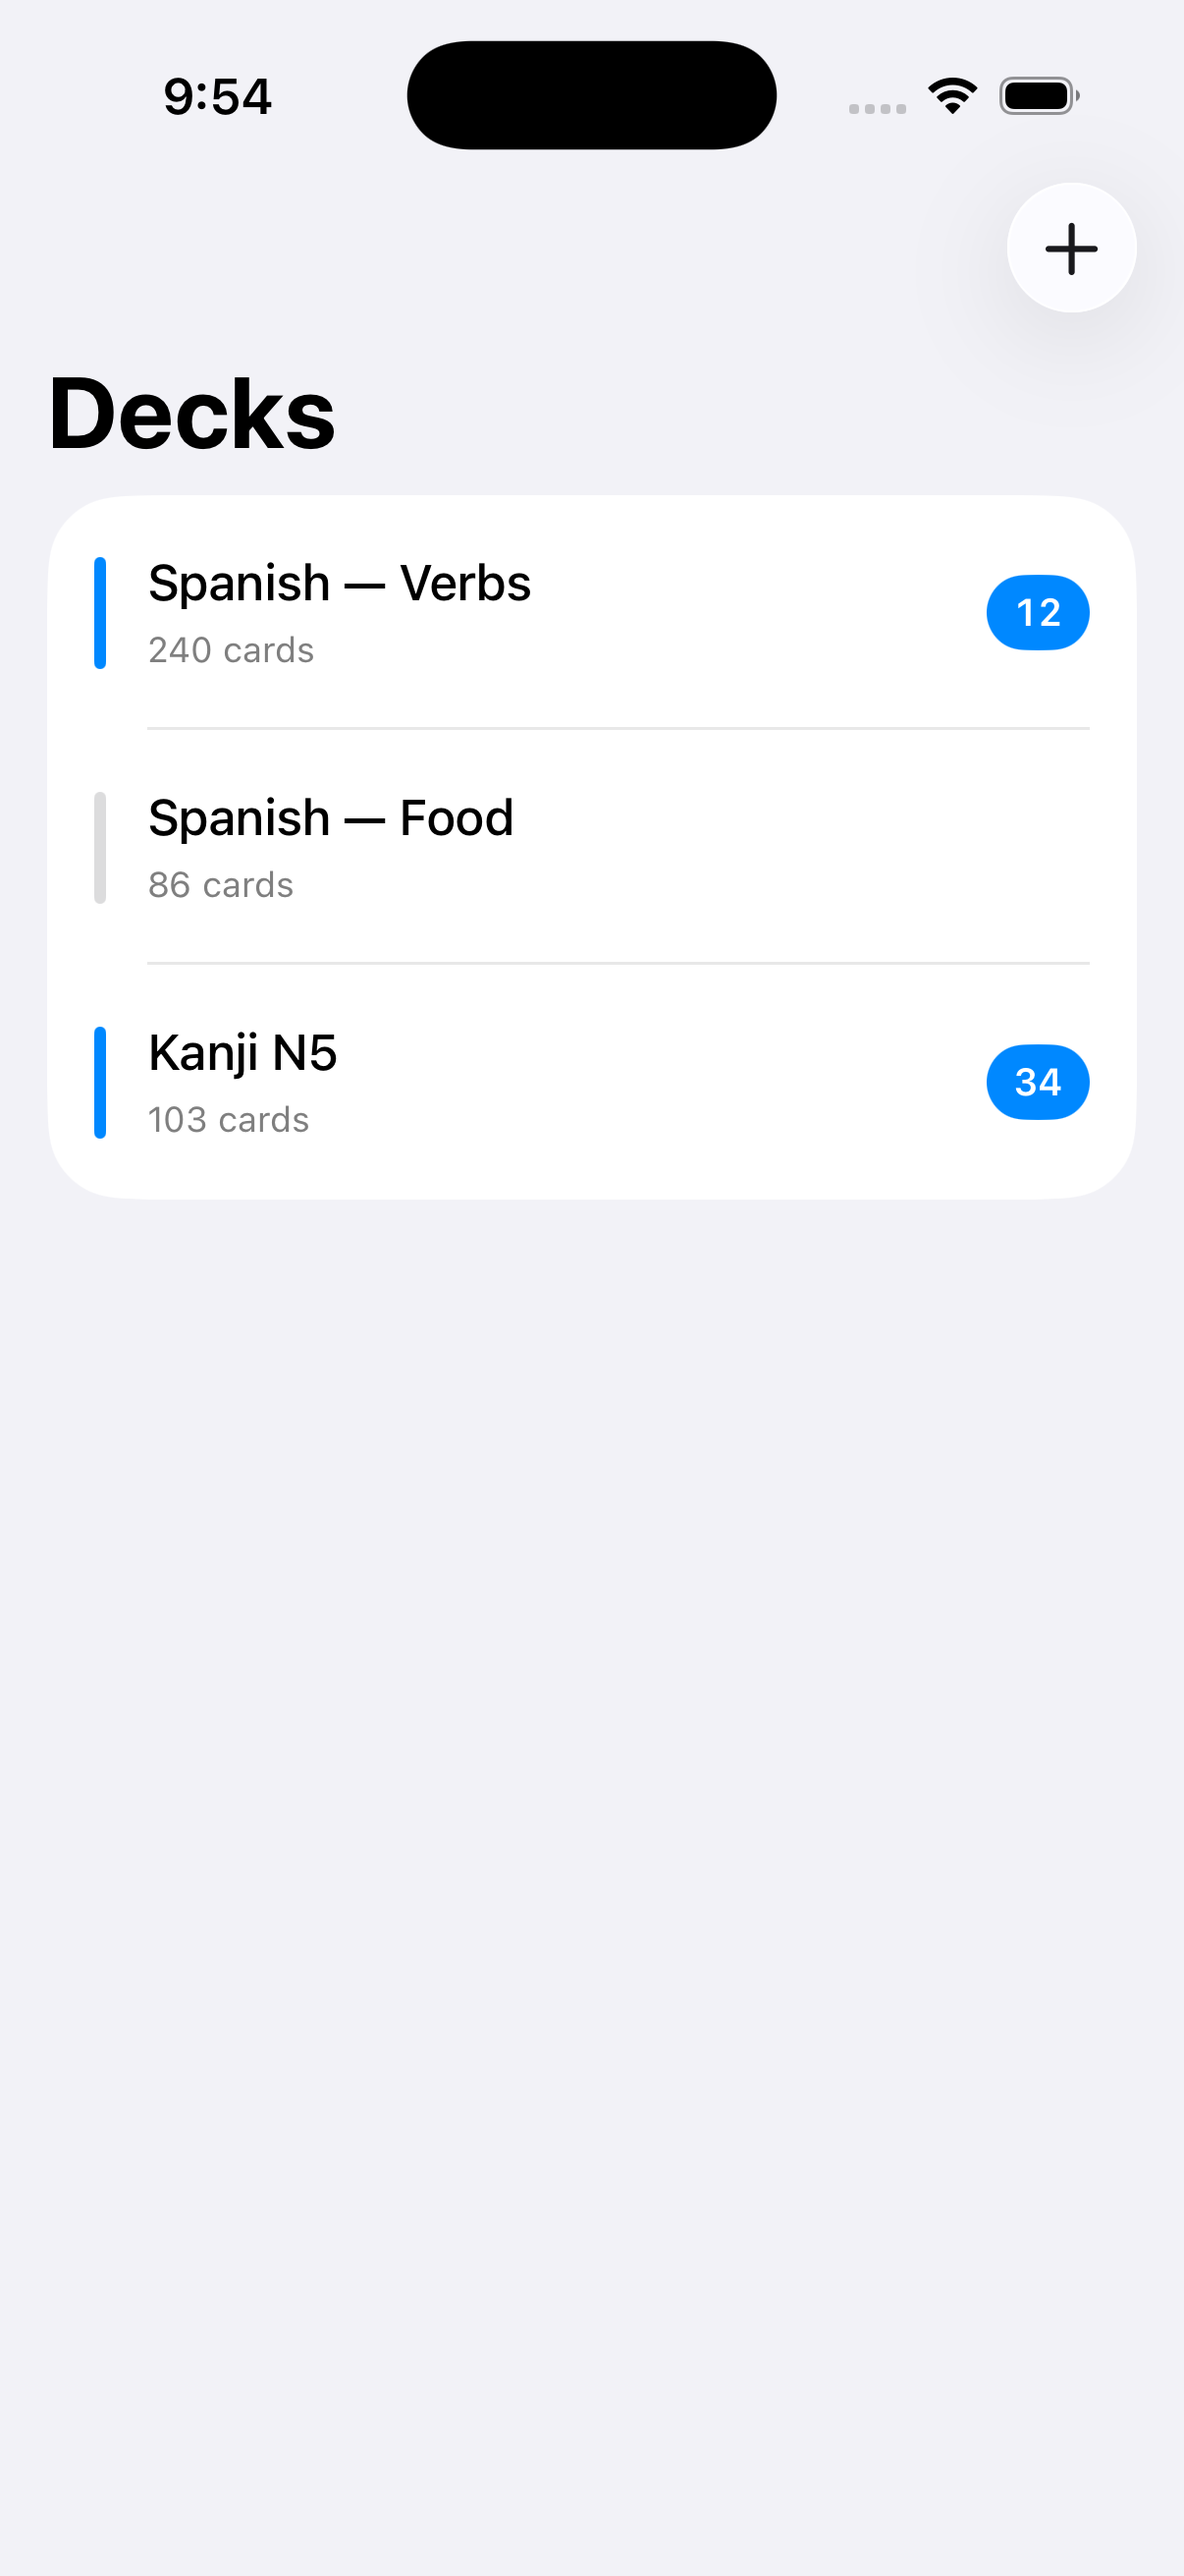
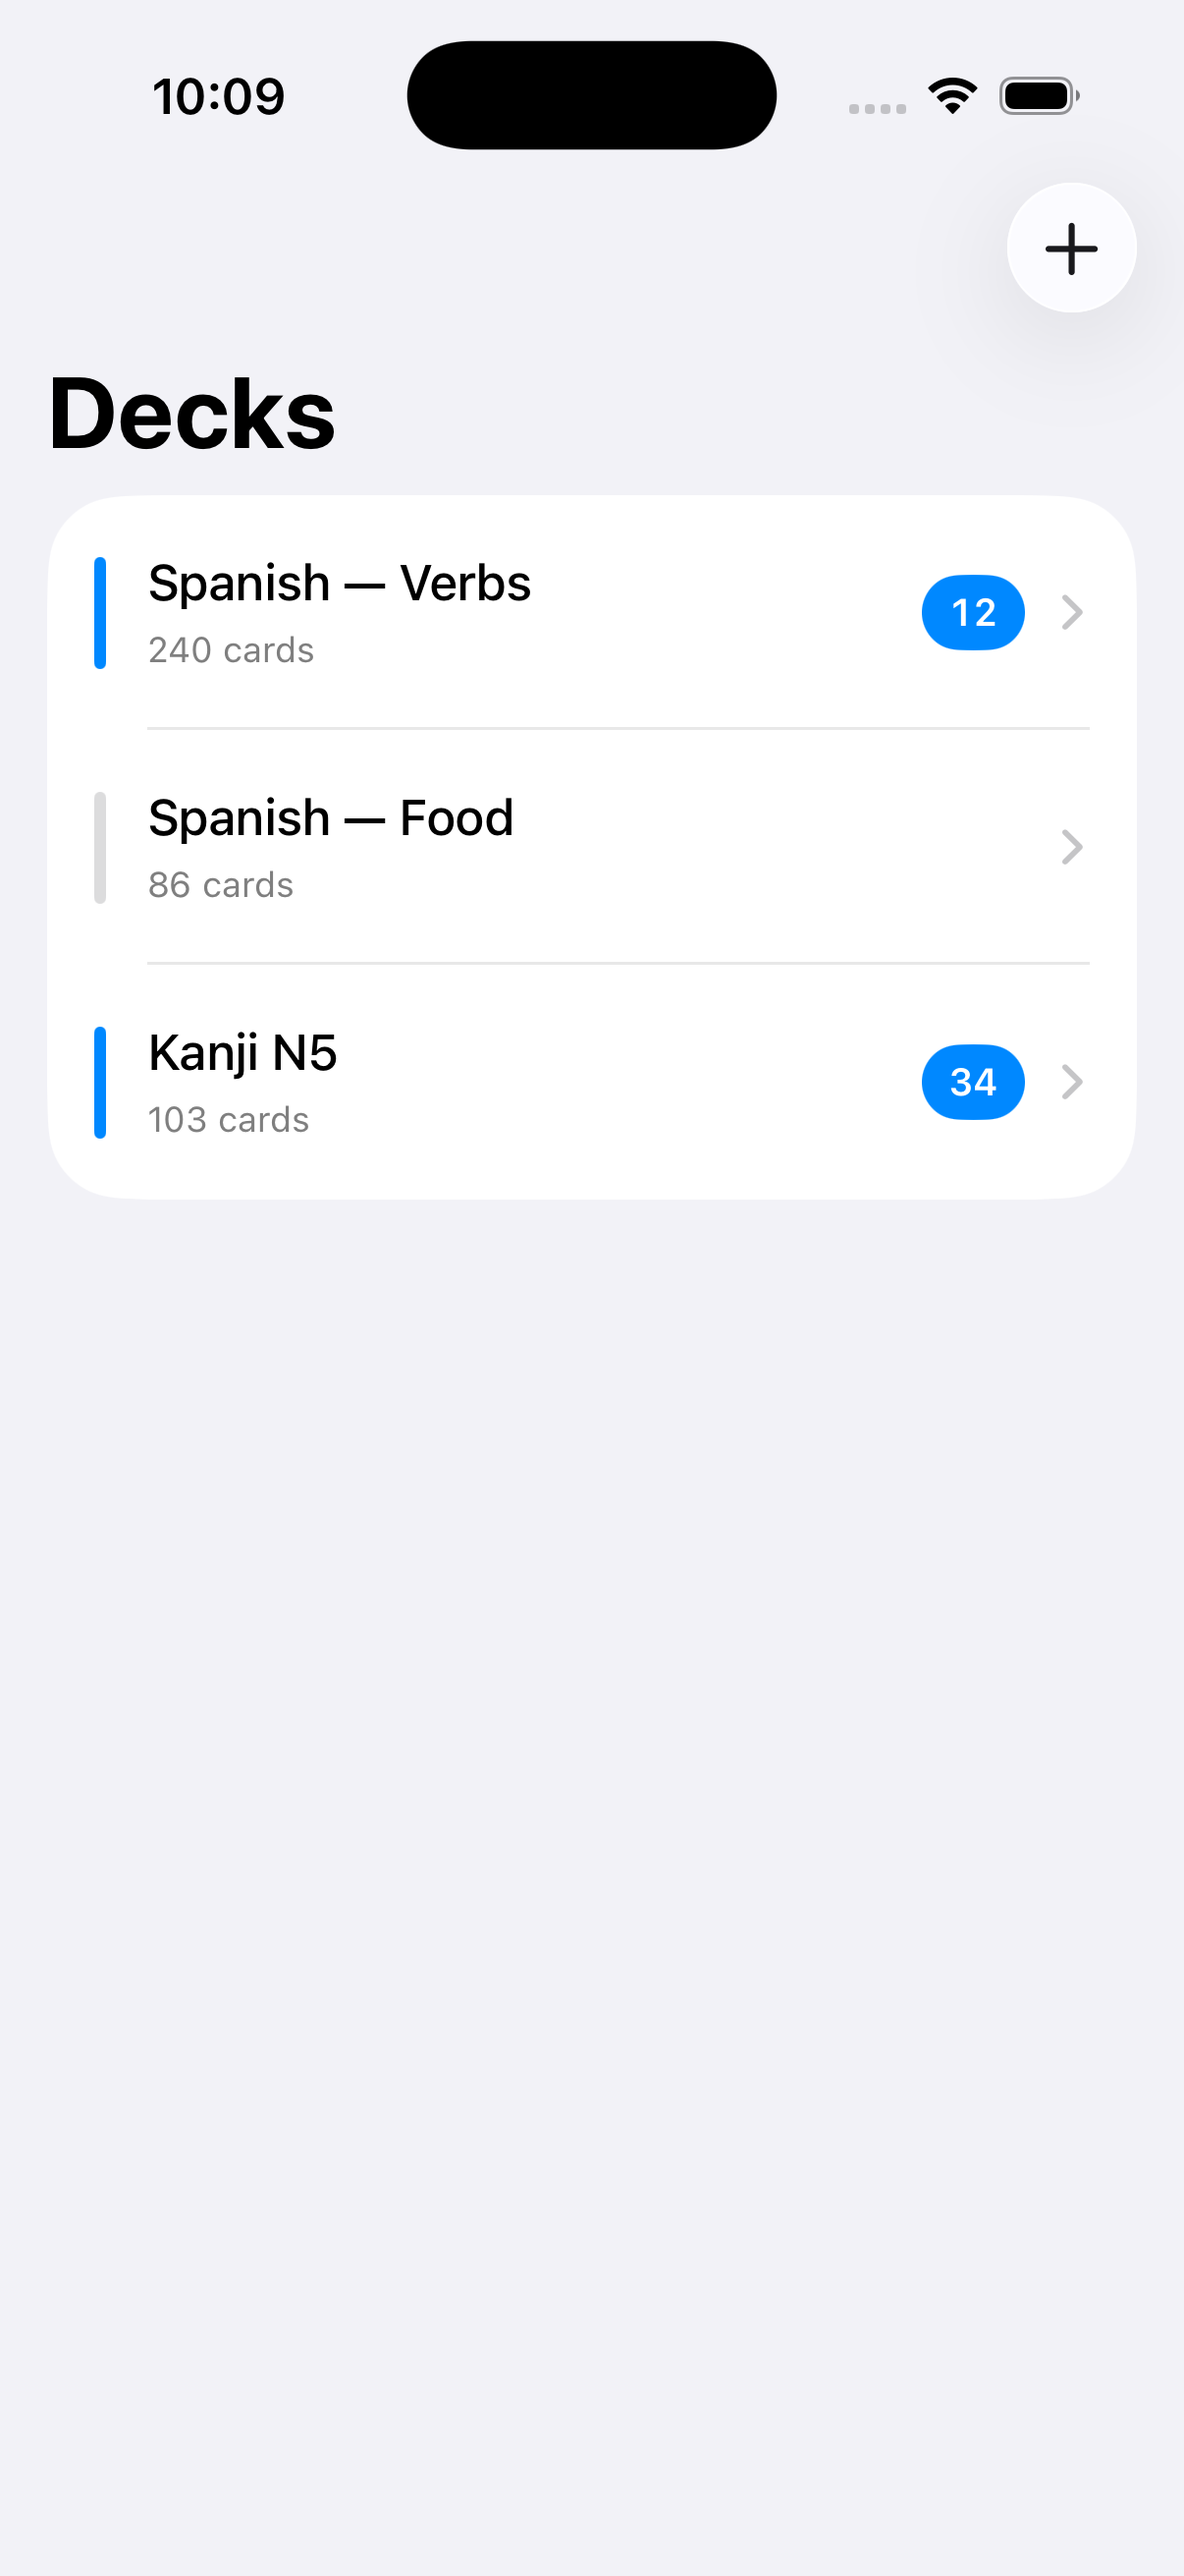
Card review, in four slices
Adds Card, ReviewView, and navigation from the deck list, each slice
built and screenshotted before the next one started.

Screenshots needed a mechanism. A second screen is not reachable by
`simctl io screenshot` - something has to navigate there, and if that
something is a person tapping, the figure stops being reproducible.
So the screen is addressable instead: launch arguments name the screen
and its state, simctl writes them into UserDefaults, and ScreenshotState
reads them. `shoot()` relaunches once per figure. Nobody taps anything.

One bug, which only the screenshot caught:

    Button(title) { advance() }
        .buttonStyle(.borderedProminent)
        .frame(maxWidth: .infinity)

compiles, runs, and draws a pill-shaped button floating inside a
full-width frame - the prominent background is drawn around a label that
never grew. The width belongs on the label. There is no diagnostic for
this and no test that would have failed; it is visible and nothing else.

Changed region(s): [[0.767, 0.2162, 0.9204, 0.278], [0.767, 0.4016, 0.9204, 0.4325], [0.1227, 0.0309, 0.2454, 0.0618]]

diff --git a/ios/Sources/ReviewView.swift b/ios/Sources/ReviewView.swift
@@ -1,0 +1,89 @@
+import SwiftUI
+
+/// Reviewing one deck: show the front, reveal the back, move on.
+struct ReviewView: View {
+    let deck: Deck
+    var startRevealed = false
+
+    @State private var index = 0
+    @State private var isRevealed = false
+
+    private var cards: [Card] { deck.dueCards }
+    private var card: Card? { cards.indices.contains(index) ? cards[index] : nil }
+
+    var body: some View {
+        VStack(spacing: 0) {
+            if let card {
+                ProgressView(value: Double(index), total: Double(max(cards.count, 1)))
+                    .padding(.horizontal, 20)
+                    .padding(.top, 8)
+
+                Spacer()
+
+                VStack(spacing: 18) {
+                    Text(card.front)
+                        .font(.system(size: 34, weight: .semibold))
+                        .multilineTextAlignment(.center)
+
+                    if isRevealed {
+                        Divider().frame(width: 120)
+                        Text(card.back)
+                            .font(.title3)
+                            .foregroundStyle(.secondary)
+                            .multilineTextAlignment(.center)
+                    }
+                }
+                .frame(maxWidth: .infinity)
+                .padding(.vertical, 44)
+                .padding(.horizontal, 24)
+                .background(.background.secondary, in: .rect(cornerRadius: 18))
+                .padding(.horizontal, 20)
+                .onTapGesture { withAnimation(.snappy) { isRevealed = true } }
+
+                Spacer()
+
+                if isRevealed {
+                    HStack(spacing: 12) {
+                        answerButton("Again", tint: .orange)
+                        answerButton("Good", tint: .blue)
+                    }
+                    .padding(.horizontal, 20)
+                } else {
+                    Text("Tap the card to reveal")
+                        .font(.footnote)
+                        .foregroundStyle(.secondary)
+                }
+            } else {
+                ContentUnavailableView(
+                    "Nothing due",
+                    systemImage: "checkmark.circle",
+                    description: Text("This deck has no cards waiting for review.")
+                )
+            }
+        }
+        .padding(.bottom, 28)
+        .navigationTitle(deck.name)
+        .navigationBarTitleDisplayMode(.inline)
+        .onAppear { isRevealed = startRevealed }
+    }
+
+    private func answerButton(_ title: String, tint: Color) -> some View {
+        // The width goes on the *label*, not on the button.
+        //
+        // `Button(title) { }.frame(maxWidth: .infinity)` compiles, and gives a
+        // pill-shaped button floating in a full-width frame - the background is
+        // drawn around the label, which never grew. Nothing catches this except
+        // looking at it.
+        Button { advance() } label: {
+            Text(title).frame(maxWidth: .infinity)
+        }
+        .buttonStyle(.borderedProminent)
+        .tint(tint)
+        .controlSize(.large)
+    }
+
+    private func advance() {
+        isRevealed = false
+        index += 1
+    }
+}

diff --git a/ios/Sources/App.swift b/ios/Sources/App.swift
@@ -3,7 +3,31 @@ import SwiftUI
 @main
 struct FlashcardsApp: App {
     var body: some Scene {
-        WindowGroup { DeckList() }
+        WindowGroup { DeckList(openTo: ScreenshotState.current) }
+    }
+}
+
+/// Which screen to open on launch, and in what state.
+///
+/// Read from launch arguments, which `simctl launch` writes into UserDefaults:
+///
+///     xcrun simctl launch <udid> <bundle> -screen review -revealed YES
+///
+/// This exists so screenshots can be taken by a script instead of by a person
+/// tapping through the app. A screenshot nobody can reproduce is a screenshot
+/// nobody can check. See Chapter 5.
+///
+/// It is inert in normal use: with no launch arguments, `current` is nil.
+enum ScreenshotState {
+    case review(deckNamed: String, revealed: Bool)
+
+    static var current: ScreenshotState? {
+        let defaults = UserDefaults.standard
+        guard defaults.string(forKey: "screen") == "review" else { return nil }
+        return .review(
+            deckNamed: defaults.string(forKey: "deck") ?? "Spanish — Verbs",
+            revealed: defaults.bool(forKey: "revealed")
+        )
     }
 }
 
@@ -15,6 +39,9 @@ struct Deck: Identifiable, Hashable {
 }
 
 struct DeckList: View {
+    var openTo: ScreenshotState? = nil
+
+    @State private var path: [Deck] = []
     @State private var decks: [Deck] = [
         Deck(name: "Spanish — Verbs", dueCount: 12, totalCount: 240),
         Deck(name: "Spanish — Food", dueCount: 0, totalCount: 86),
@@ -22,8 +49,9 @@ struct DeckList: View {
     ]
 
     var body: some View {
-        NavigationStack {
+        NavigationStack(path: $path) {
             List(decks) { deck in
+                NavigationLink(value: deck) {
                 HStack(spacing: 14) {
                     RoundedRectangle(cornerRadius: 8)
                         .fill(deck.dueCount > 0 ? .blue : .secondary.opacity(0.3))
@@ -43,9 +71,26 @@ struct DeckList: View {
                     }
                 }
                 .padding(.vertical, 4)
+                }
+            }
+            .navigationDestination(for: Deck.self) {
+                ReviewView(deck: $0, startRevealed: startRevealed)
             }
             .navigationTitle("Decks")
             .toolbar { Button("Add", systemImage: "plus") {} }
         }
+        .onAppear(perform: applyScreenshotState)
+    }
+
+    private var startRevealed: Bool {
+        if case .review(_, let revealed) = openTo { return revealed }
+        return false
+    }
+
+    private func applyScreenshotState() {
+        guard case .review(let name, _) = openTo,
+              let deck = decks.first(where: { $0.name == name })
+        else { return }
+        path = [deck]
     }
 }

diff --git a/ios/Sources/Card.swift b/ios/Sources/Card.swift
@@ -1,0 +1,34 @@
+import Foundation
+
+/// One side-to-side flashcard.
+///
+/// Deliberately plain. Nothing here knows about scheduling, persistence, or
+/// SwiftUI — those arrive in their own chapters, and keeping them out is what
+/// lets a later change be reviewed as a small diff rather than a rewrite.
+struct Card: Identifiable, Hashable {
+    let id = UUID()
+    var front: String
+    var back: String
+}
+
+extension Deck {
+    /// The cards due in this deck.
+    ///
+    /// Sample data for now. Chapter 9 replaces the storage behind this without
+    /// changing the property, which is the point of it being a property.
+    var dueCards: [Card] {
+        Deck.sampleCards[name] ?? []
+    }
+
+    static let sampleCards: [String: [Card]] = [
+        "Spanish — Verbs": [
+            Card(front: "to run", back: "correr"),
+            Card(front: "to bring", back: "traer"),
+            Card(front: "to leave", back: "salir"),
+        ],
+        "Kanji N5": [
+            Card(front: "水", back: "water — みず"),
+            Card(front: "火", back: "fire — ひ"),
+        ],
+    ]
+}
